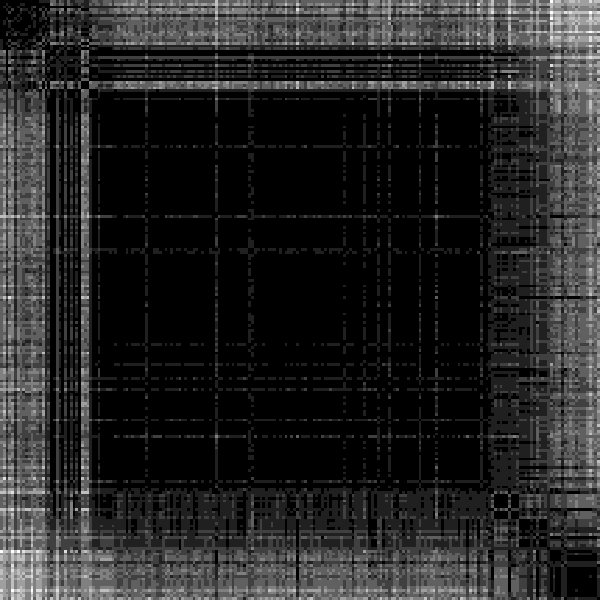
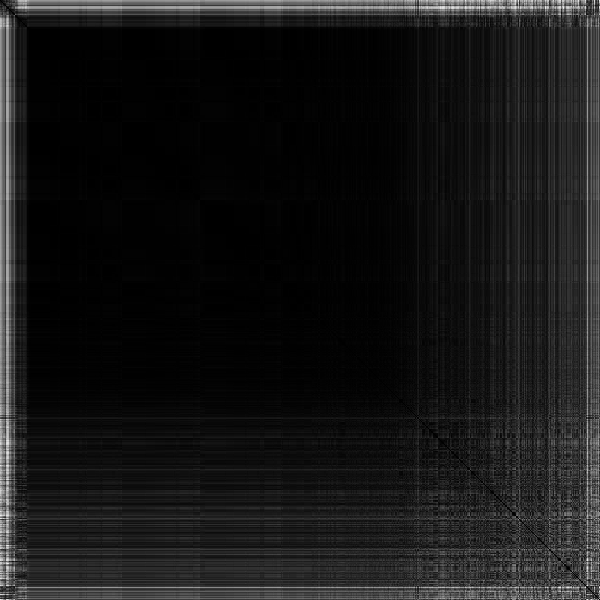
Added few more dissimilarity functions

diff --git a/Src/DataSet.hpp b/Src/DataSet.hpp
@@ -100,9 +100,34 @@ public:
             std::cerr << "To be done" << std::endl ;
         }
 
+        // http://en.wikipedia.org/wiki/Pearson_product-moment_correlation_coefficient#Pearson.E2.80.99s_distance
         else if( e_pearson == functionType )
         {
-            std::cerr << "To be done" << std::endl ;
+            dataPointDistanceType pearsonCoefficient = 0.0;
+            dataPointDistanceType numerator = 0.0, denominator1 = 0.0, denominator2 = 0.0;
+
+            for (int i = 0; i < point1.getFeatureVector().size(); i++)
+            {
+                numerator += (point1.getFeatureVector()[i] - dataStatisticList[i].mean)*( point2.getFeatureVector()[i] - dataStatisticList[i].mean );
+            }
+
+            for (int i = 0; i < point1.getFeatureVector().size(); i++)
+            {
+                denominator1  += (point1.getFeatureVector()[i] - dataStatisticList[i].mean)*( point1.getFeatureVector()[i] - dataStatisticList[i].mean );
+            }
+
+            denominator1 = sqrt(denominator1);
+
+            for (int i = 0; i < point1.getFeatureVector().size(); i++)
+            {
+                denominator2  += (point2.getFeatureVector()[i] - dataStatisticList[i].mean)*( point2.getFeatureVector()[i] - dataStatisticList[i].mean );
+            }
+
+            denominator2 = sqrt(denominator2);
+
+            pearsonCoefficient = numerator / (denominator1 * denominator2);
+
+            return 1-pearsonCoefficient ;
         }
 
         else
@@ -135,6 +160,7 @@ public:
 
     void normalizeDataset()
     {        
+        std::cout << "Stats calculated" << std::endl ;
         evaluateStats();
 
         for( int i = 0 ; i < dataPointsList.size() ; ++i )

diff --git a/Src/OpenGlSurface.cpp b/Src/OpenGlSurface.cpp
@@ -67,7 +67,7 @@ OpenGlSurface::OpenGlSurface(int x , int y, int width, int height, QGLWidget *pa
         std::cout << "Randomizing data set.." << std::endl;
         dataSet.randomRearrangeDataset();
 
-        std::cout << "Normalizing data set to commmon distribution.." << std::endl;
+        std::cout << "Normalizing data set to common distribution.." << std::endl;
         dataSet.normalizeDataset();
 
         std::cout << "Allocating memory and filling dissimilarity matrix.." << std::endl;
@@ -214,13 +214,25 @@ void OpenGlSurface::keyPressEvent(QKeyEvent * keyevent)
 
     else if( keyevent->key() == Qt::Key_U )
     {
-        intensity += 2 ;
+        intensity += 1.5 ;
     }
 
     else if( keyevent->key() == Qt::Key_D )
     {
-        intensity -= 2 ;
+        intensity -= 1.5 ;
     }
+
+    else if( keyevent->key() == Qt::Key_I )
+    {
+        for( int i = 0 ; i < distanceMatrix.getSize() ; ++i )
+            for( int j = 0 ; j < distanceMatrix.getSize() ; ++j )
+                if( distanceMatrix.getValue(i,j) > .5 )
+                    distanceMatrix.setValue(i,j,distanceMatrix.getValue(i,j)+.05);
+                else
+                    distanceMatrix.setValue(i,j,distanceMatrix.getValue(i,j)-.05);
+    }
+
+
 }
 
 /*

diff --git a/Src/DissimilarityMatrix.h b/Src/DissimilarityMatrix.h
@@ -20,6 +20,7 @@ public:
     void setSize(int size) { dissimilarityMatrixSize = size ; }
     int  getSize() { return dissimilarityMatrixSize; }
     double getValue(int i, int j) { return dissimilarityMatrix[i][j] ; }
+    void setValue(int i, int j,double value) { dissimilarityMatrix[i][j] = value ; }
     void printMatrix();
     void fillMaxInfo();
     void applyVAT();
